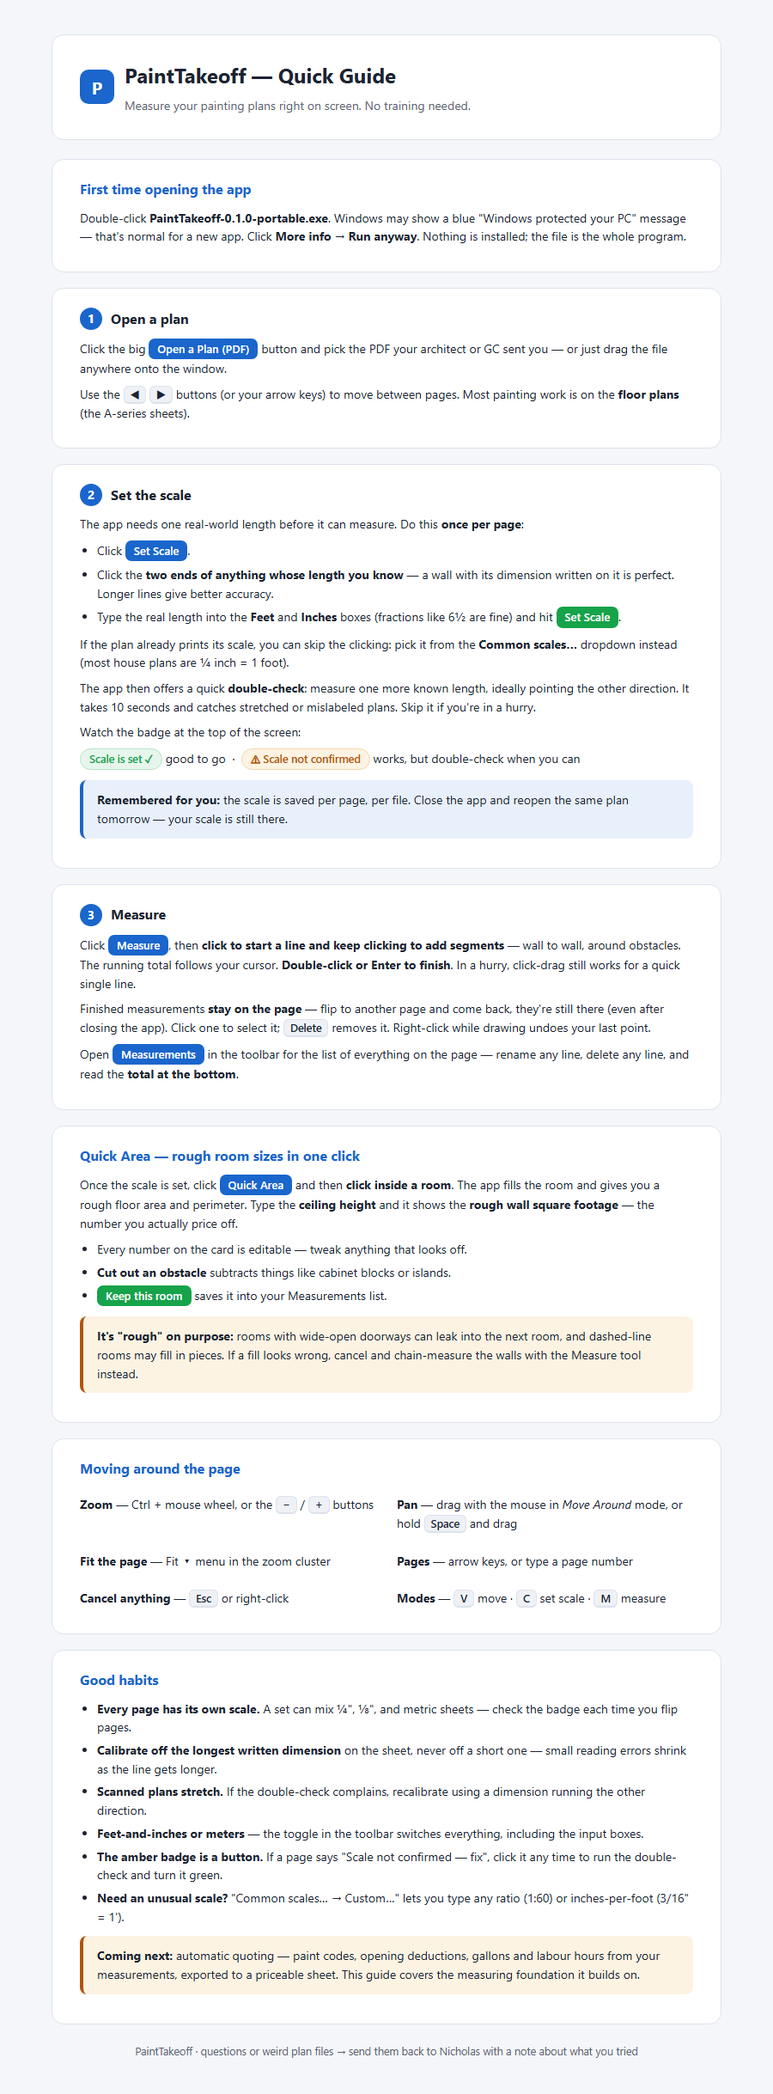
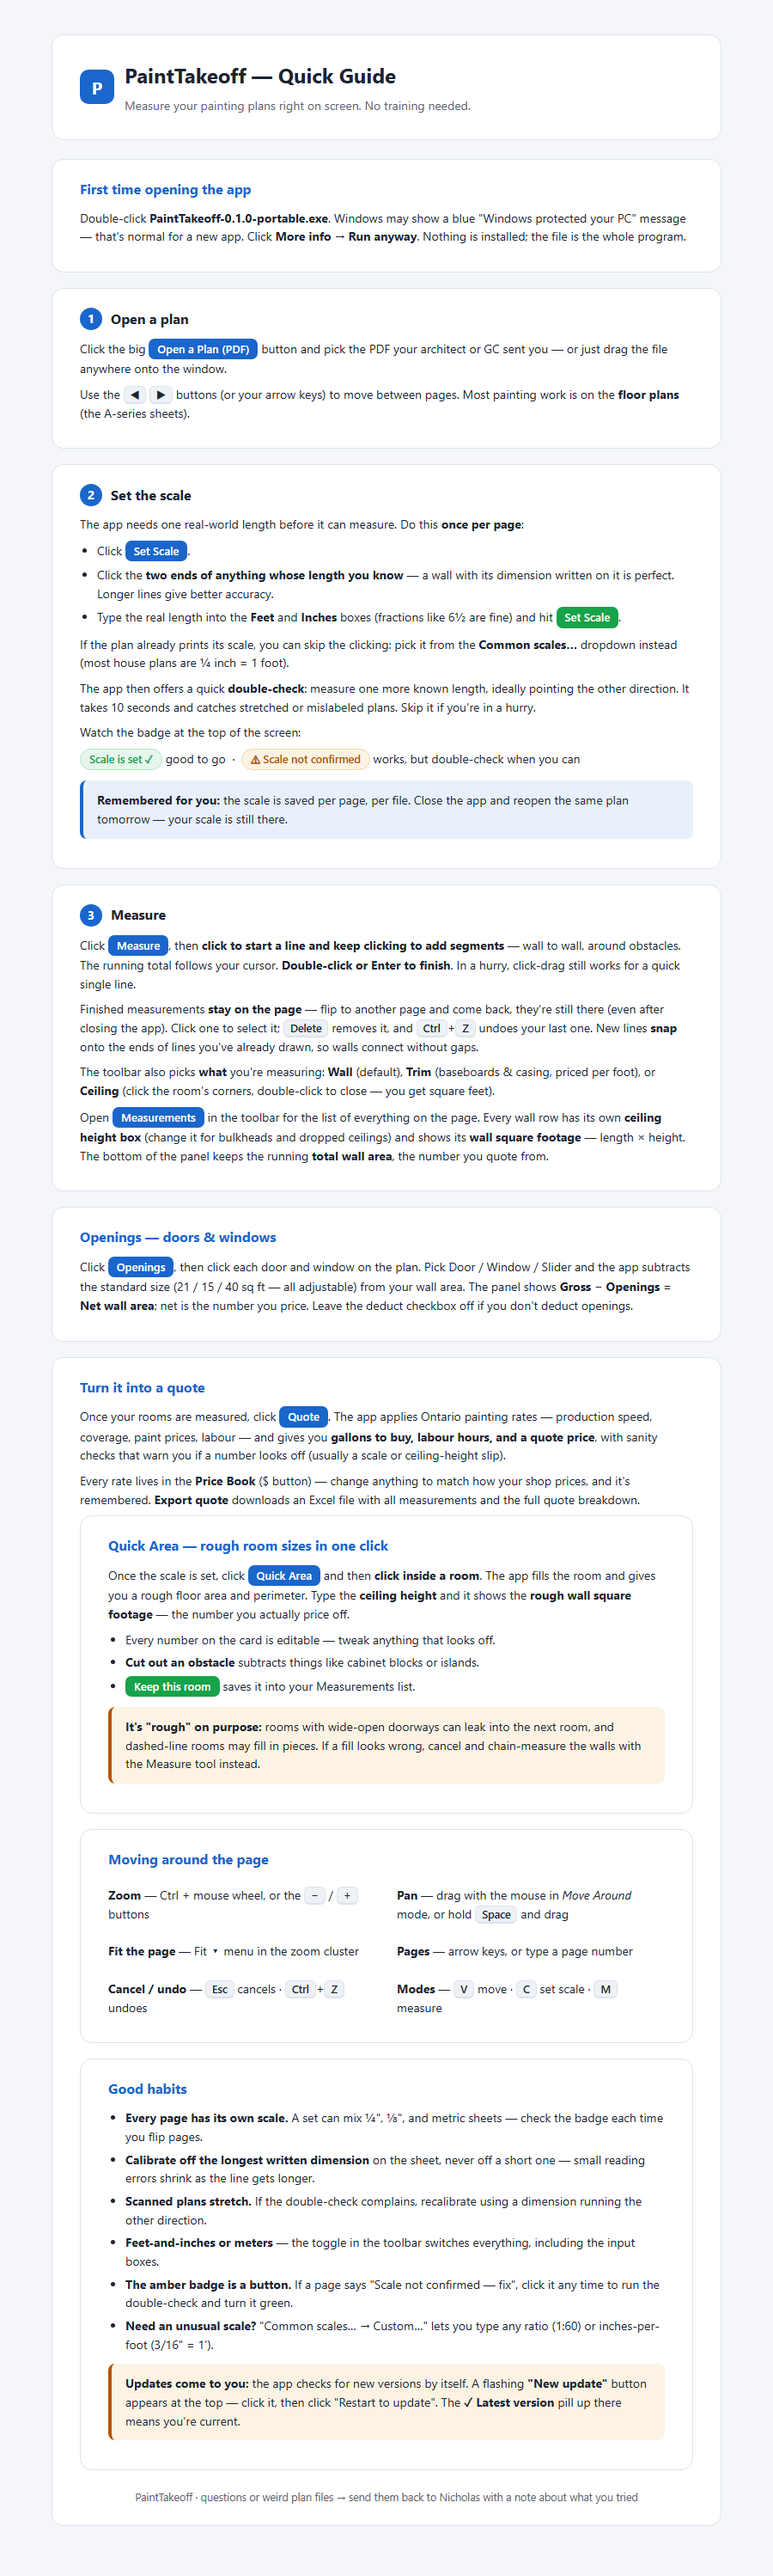
Guide: openings, kinds, quote engine, update pill

Changed region(s): [[0.0933, 0.0, 0.9022, 0.9979]]

diff --git a/guide/PaintTakeoff-Guide.html b/guide/PaintTakeoff-Guide.html
@@ -143,10 +143,35 @@
     quick single line.</p>
     <p>Finished measurements <strong>stay on the page</strong> — flip to another page and come back,
     they're still there (even after closing the app). Click one to select it; <span class="kbd">Delete</span>
-    removes it. Right-click while drawing undoes your last point.</p>
+    removes it, and <span class="kbd">Ctrl</span>+<span class="kbd">Z</span> undoes your last one.
+    New lines <strong>snap</strong> onto the ends of lines you've already drawn, so walls connect
+    without gaps.</p>
+    <p>The toolbar also picks <strong>what</strong> you're measuring: <strong>Wall</strong> (default),
+    <strong>Trim</strong> (baseboards &amp; casing, priced per foot), or <strong>Ceiling</strong>
+    (click the room's corners, double-click to close — you get square feet).</p>
     <p>Open <span class="btn btn-blue">Measurements</span> in the toolbar for the list of everything on
-    the page — rename any line, delete any line, and read the <strong>total at the bottom</strong>.</p>
+    the page. Every wall row has its own <strong>ceiling height box</strong> (change it for bulkheads
+    and dropped ceilings) and shows its <strong>wall square footage</strong> — length × height. The
+    bottom of the panel keeps the running <strong>total wall area</strong>, the number you quote from.</p>
   </div>
+
+  <div class="card">
+    <h2 class="plain">Openings — doors &amp; windows</h2>
+    <p>Click <span class="btn btn-blue">Openings</span>, then click each door and window on the plan.
+    Pick Door / Window / Slider and the app subtracts the standard size (21 / 15 / 40 sq ft —
+    all adjustable) from your wall area. The panel shows <strong>Gross − Openings = Net wall area</strong>;
+    net is the number you price. Leave the deduct checkbox off if you don't deduct openings.</p>
+  </div>
+
+  <div class="card">
+    <h2 class="plain">Turn it into a quote</h2>
+    <p>Once your rooms are measured, click <span class="btn btn-blue">Quote</span>. The app applies
+    Ontario painting rates — production speed, coverage, paint prices, labour — and gives you
+    <strong>gallons to buy, labour hours, and a quote price</strong>, with sanity checks that warn
+    you if a number looks off (usually a scale or ceiling-height slip).</p>
+    <p>Every rate lives in the <strong>Price Book</strong> ($ button) — change anything to match how
+    your shop prices, and it's remembered. <strong>Export quote</strong> downloads an Excel file with
+    all measurements and the full quote breakdown.</p>
 
   <div class="card">
     <h2 class="plain">Quick Area — rough room sizes in one click</h2>
@@ -171,7 +196,7 @@
       <p><strong>Pan</strong> — drag with the mouse in <em>Move Around</em> mode, or hold <span class="kbd">Space</span> and drag</p>
       <p><strong>Fit the page</strong> — Fit ▾ menu in the zoom cluster</p>
       <p><strong>Pages</strong> — arrow keys, or type a page number</p>
-      <p><strong>Cancel anything</strong> — <span class="kbd">Esc</span> or right-click</p>
+      <p><strong>Cancel / undo</strong> — <span class="kbd">Esc</span> cancels · <span class="kbd">Ctrl</span>+<span class="kbd">Z</span> undoes</p>
       <p><strong>Modes</strong> — <span class="kbd">V</span> move · <span class="kbd">C</span> set scale · <span class="kbd">M</span> measure</p>
     </div>
   </div>
@@ -192,9 +217,9 @@
       <li><strong>Need an unusual scale?</strong> "Common scales… → Custom…" lets you type any
       ratio (1:60) or inches-per-foot (3/16" = 1').</li>
     </ul>
-    <div class="warn"><strong>Coming next:</strong> automatic quoting — paint codes, opening
-    deductions, gallons and labour hours from your measurements, exported to a priceable sheet.
-    This guide covers the measuring foundation it builds on.</div>
+    <div class="warn"><strong>Updates come to you:</strong> the app checks for new versions by itself.
+    A flashing <strong>"New update"</strong> button appears at the top — click it, then click
+    "Restart to update". The <strong>✓ Latest version</strong> pill up there means you're current.</div>
   </div>
 
   <footer>PaintTakeoff · questions or weird plan files → send them back to Nicholas with a note about what you tried</footer>
